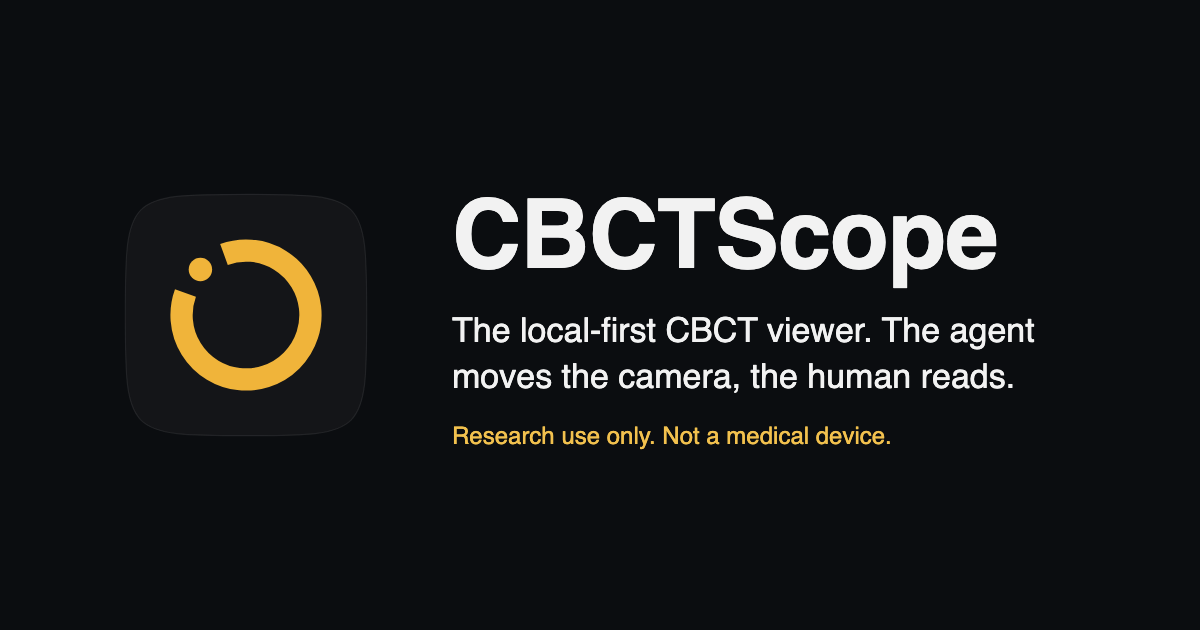
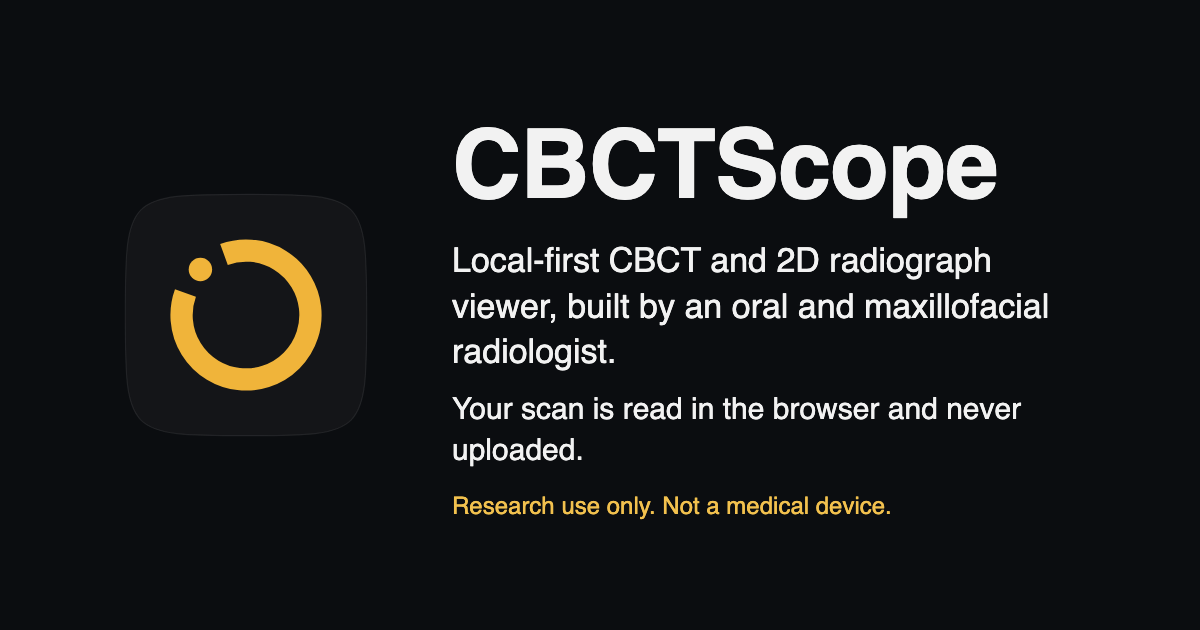
The page, share card and Twitter titles read CBCTScope: CBCT and radiograph viewer in your browser, the repository target's description drops the agent, and the share card shows the viewer and author line and the privacy line from the site constants

Changed region(s): [[0.37, 0.181, 0.8942, 0.754], [0.37, 0.7841, 0.74, 0.8143]]

diff --git a/app/layout.tsx b/app/layout.tsx
@@ -5,16 +5,20 @@ import './globals.css';
 
 const ogImage = { url: OG_IMAGE.path, width: OG_IMAGE.width, height: OG_IMAGE.height, alt: SITE_NAME };
 
+/** the page title, the share card's title and the Twitter title: what this is, in one line */
+const TITLE = 'CBCTScope: CBCT and radiograph viewer in your browser';
+
 export const metadata: Metadata = {
-  title: 'CBCTScope',
+  title: TITLE,
   metadataBase: new URL(SITE_URL),
-  // the share card: one site URL constant, the README's claim, the rendered public/og.png
-  openGraph: { type: 'website', title: SITE_NAME, description: SITE_CLAIM, url: SITE_URL, siteName: SITE_NAME, images: [ogImage] },
-  twitter: { card: 'summary_large_image', title: SITE_NAME, description: SITE_CLAIM, images: [ogImage] },
+  // the share card: one site URL constant, the README's claim, the rendered public/og.png (its two
+  // lines come from components/siteCard.mjs)
+  openGraph: { type: 'website', title: TITLE, description: SITE_CLAIM, url: SITE_URL, siteName: SITE_NAME, images: [ogImage] },
+  twitter: { card: 'summary_large_image', title: TITLE, description: SITE_CLAIM, images: [ogImage] },
   description:
     process.env.NEXT_PUBLIC_CBCTSCOPE_TARGET === 'web'
       ? 'CBCT viewer in the browser: the scan is read into this tab and never uploaded. Research use only; not a medical device.'
-      : 'Local-first CBCT viewer with native AI-agent control (MCP). Research use only; not a medical device.',
+      : 'Local-first CBCT and 2D radiograph viewer. Research use only; not a medical device.',
 };
 
 export default function RootLayout({ children }: { children: ReactNode }) {

diff --git a/tests/siteCard.test.ts b/tests/siteCard.test.ts
@@ -1,0 +1,29 @@
+// The page title and the share card say what CBCTScope is: a viewer, who built it, and that the
+// scan stays in the browser. The card is rendered from the site constants, never typed twice.
+import { readFileSync } from 'node:fs';
+import path from 'node:path';
+import { describe, expect, it } from 'vitest';
+import { CARD_CLAIM, CARD_PRIVACY } from '@/components/siteCard.mjs';
+
+const read = (p: string) => readFileSync(path.join(process.cwd(), p), 'utf8');
+
+describe('the title and the share card', () => {
+  it('the page, Open Graph and Twitter titles are one line naming the viewer', () => {
+    const layout = read('app/layout.tsx');
+    expect(layout).toContain("const TITLE = 'CBCTScope: CBCT and radiograph viewer in your browser';");
+    expect(layout).toMatch(/title: TITLE,/);
+    expect(layout).toMatch(/openGraph: \{[^}]*title: TITLE,/);
+    expect(layout).toMatch(/twitter: \{[^}]*title: TITLE,/);
+  });
+
+  it('the card carries the viewer and author line, then the privacy line, and no agent', () => {
+    expect(CARD_CLAIM).toBe('Local-first CBCT and 2D radiograph viewer, built by an oral and maxillofacial radiologist.');
+    expect(CARD_PRIVACY).toBe('Your scan is read in the browser and never uploaded.');
+    for (const line of [CARD_CLAIM, CARD_PRIVACY]) expect(line).not.toMatch(/\b(agent|AI|MCP|model)\b/i);
+    const og = read('scripts/og.mjs');
+    expect(og).toContain("from '../components/siteCard.mjs'");
+    expect(og).toContain('${CARD_CLAIM}');
+    expect(og).toContain('${CARD_PRIVACY}');
+    expect(og).not.toContain('agent');
+  });
+});

diff --git a/components/site.ts b/components/site.ts
@@ -10,5 +10,8 @@ export const SITE_NAME = 'CBCTScope';
 export const SITE_CLAIM =
   'A complete, local-first CBCT and 2D radiograph viewer, built by a board-certified oral and maxillofacial radiologist.';
 
+/** the share image's two lines (components/siteCard.mjs), rendered by scripts/og.mjs */
+export { CARD_CLAIM, CARD_PRIVACY } from './siteCard.mjs';
+
 /** the share image, rendered by scripts/og.mjs into public/og.png */
 export const OG_IMAGE = { path: '/og.png', width: 1200, height: 630 } as const;
